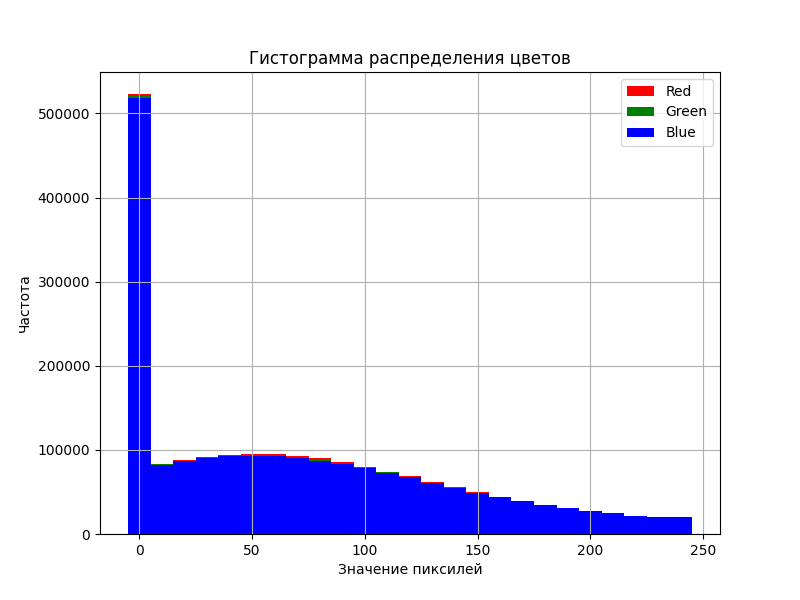
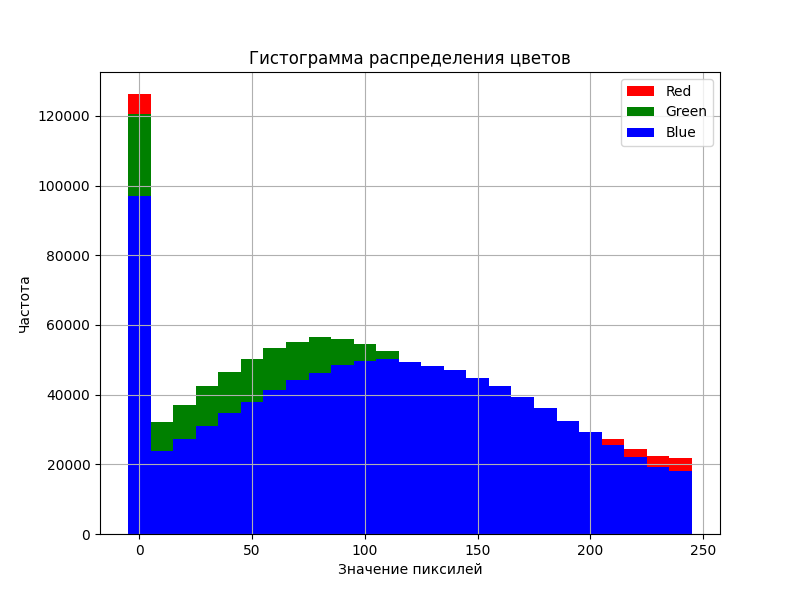
Initial commit

diff --git a/templates/forms.html b/templates/forms.html
@@ -55,3 +55,41 @@
     {% endif %}
 </body>
 </html>
+
+<!DOCTYPE html>
+<html>
+<head>
+    <title>Форма загрузки изображений</title>
+</head>
+<body>
+    <h1>Загрузите изображения</h1>
+    <form action="/image_form" method="post" enctype="multipart/form-data">
+        <input type="file" name="files" multiple>
+        <input type="number" name="noise_level" placeholder="Уровень шума" step="0.1">
+        <input type="hidden" name="resp" id="g-recaptcha-response">
+        <button type="submit">Загрузить</button>
+    </form>
+
+    {% if ready %}
+        <h2>Загруженные изображения:</h2>
+        {% for image in images %}
+            <img src="{{ url_for('static', path=image) }}" alt="Изображение с шумом" width="300">
+        {% endfor %}
+
+        <h2>Гистограммы оригинальных изображений:</h2>
+        {% for histogram in original_histogram_images %}
+            <img src="{{ url_for('static', path=histogram) }}" alt="Гистограмма оригинального изображения" width="300">
+        {% endfor %}
+
+        <h2>Гистограммы изображений с шумом:</h2>
+        {% for histogram in noisy_histogram_images %}
+            <img src="{{ url_for('static', path=histogram) }}" alt="Гистограмма изображения с шумом" width="300">
+        {% endfor %}
+
+        <form action="/smooth_image" method="post">
+            <input type="hidden" name="image_path" value="{{ images[0] }}">
+            <button type="submit">Сгладить изображение</button>
+        </form>
+    {% endif %}
+</body>
+</html>

diff --git a/fastlab.py b/fastlab.py
@@ -116,3 +116,14 @@ def create_histogram_image(histograms):
 @app.get("/image_form", response_class=HTMLResponse)
 async def make_image(request: Request):
     return templates.TemplateResponse("forms.html", {"request": request})
+
+@app.post("/smooth_image")
+async def smooth_image(request: Request, image_path: str = Form()):
+    image = Image.open(image_path)
+    smoothed_image = image.filter(ImageFilter.GaussianBlur(radius=2))
+
+    smoothed_image_path = f"static/smoothed_{os.path.basename(image_path)}"
+    smoothed_image.save(smoothed_image_path)
+
+    return templates.TemplateResponse("smooth_image.html",
+                                      {"request": request, "smoothed_image_path": smoothed_image_path})
